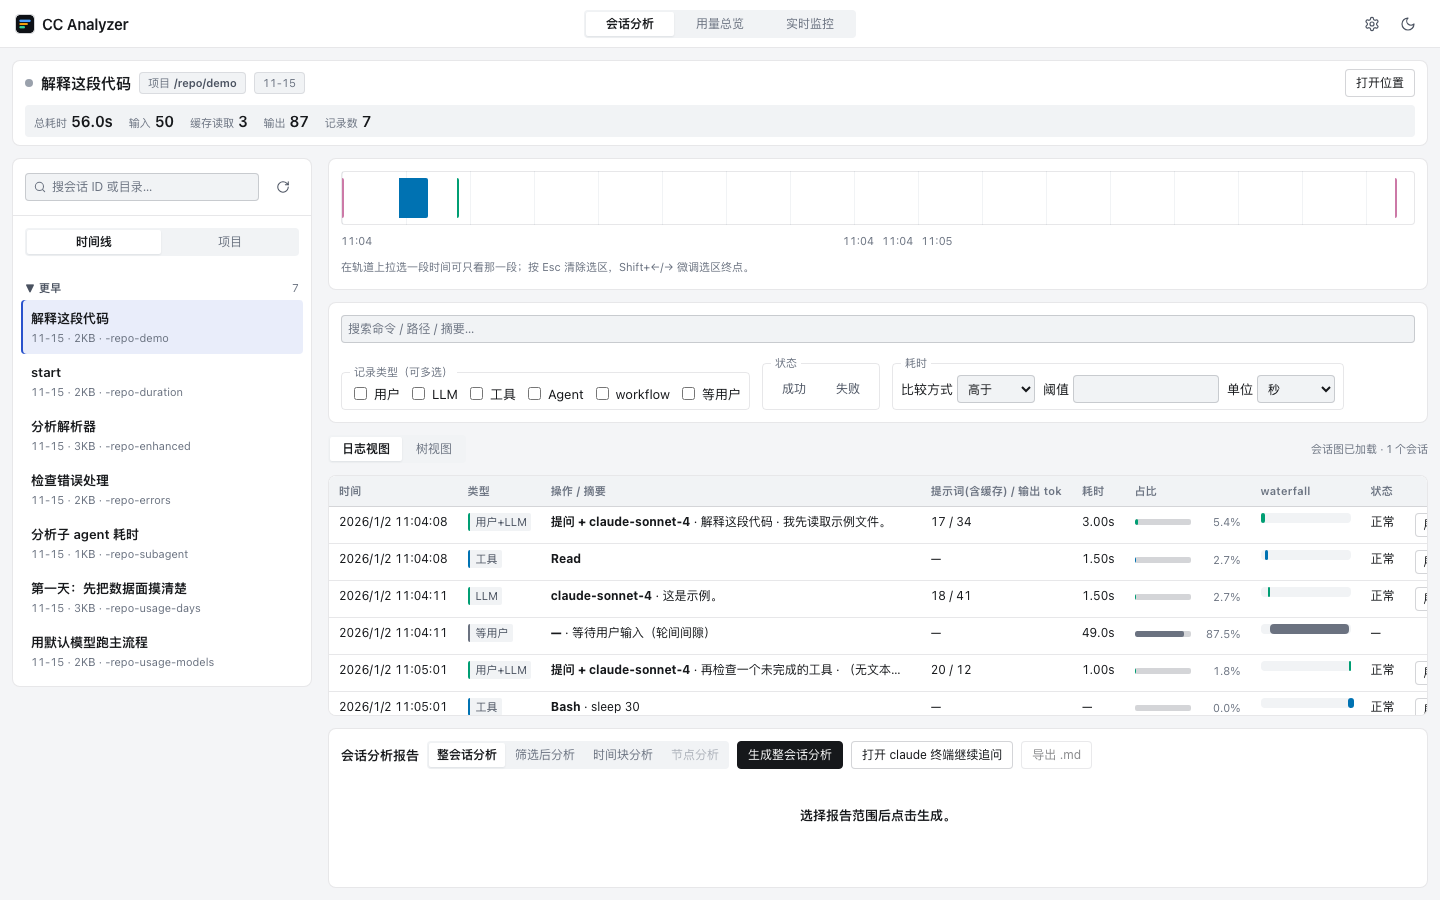
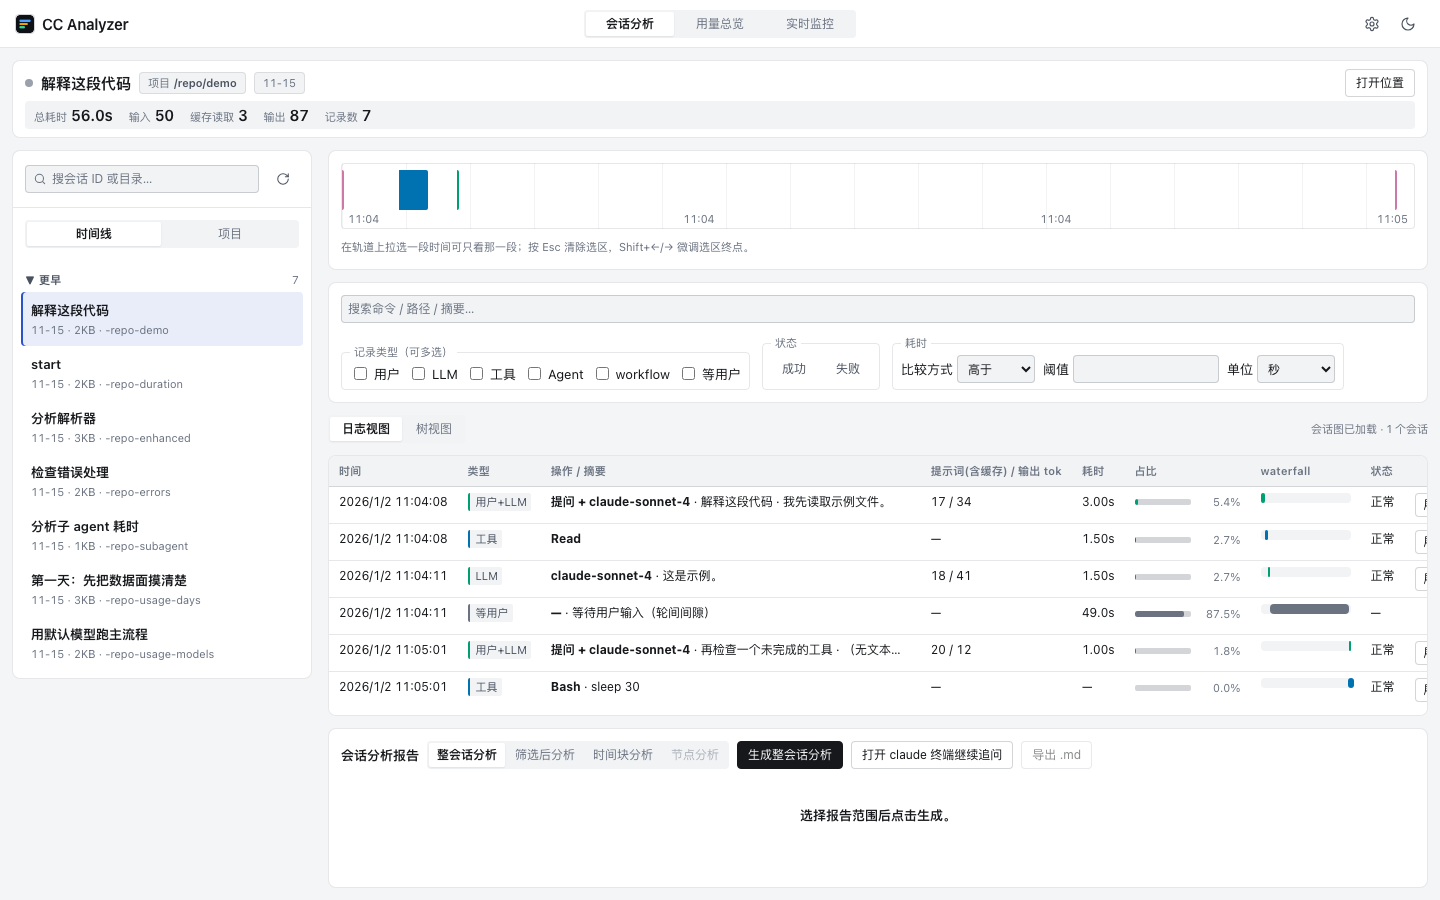
chore(release): 发布 v0.6.0

diff --git a/CHANGELOG.md b/CHANGELOG.md
@@ -4,6 +4,10 @@ All notable changes to this project will be documented in this file.
 
 ## [Unreleased]
 
+## [0.6.0] - 2026-10-02
+
+本轮主题：「通电」界面精修——UI/UX 专业评审的结论是「界面差最后一步：仪器还没通电」，本轮把刻度、读数、状态灯补齐，只加信息不加装饰。
+
 ### Added
 
 - **会话首屏读数行**：总耗时 / 输入 / 缓存读取 / 输出 / 记录数五个读数，以 15px 等宽大数字并排在会话标题下方——此前这些「用户打开应用要回答的问题」以最小字号、最弱对比藏在 chip 里，Token 数字更是要点一下才看得见。读数行整体可点击，直接展开 Token 计数面板；原 chips 降级为次级元信息（项目、相对时间）。
